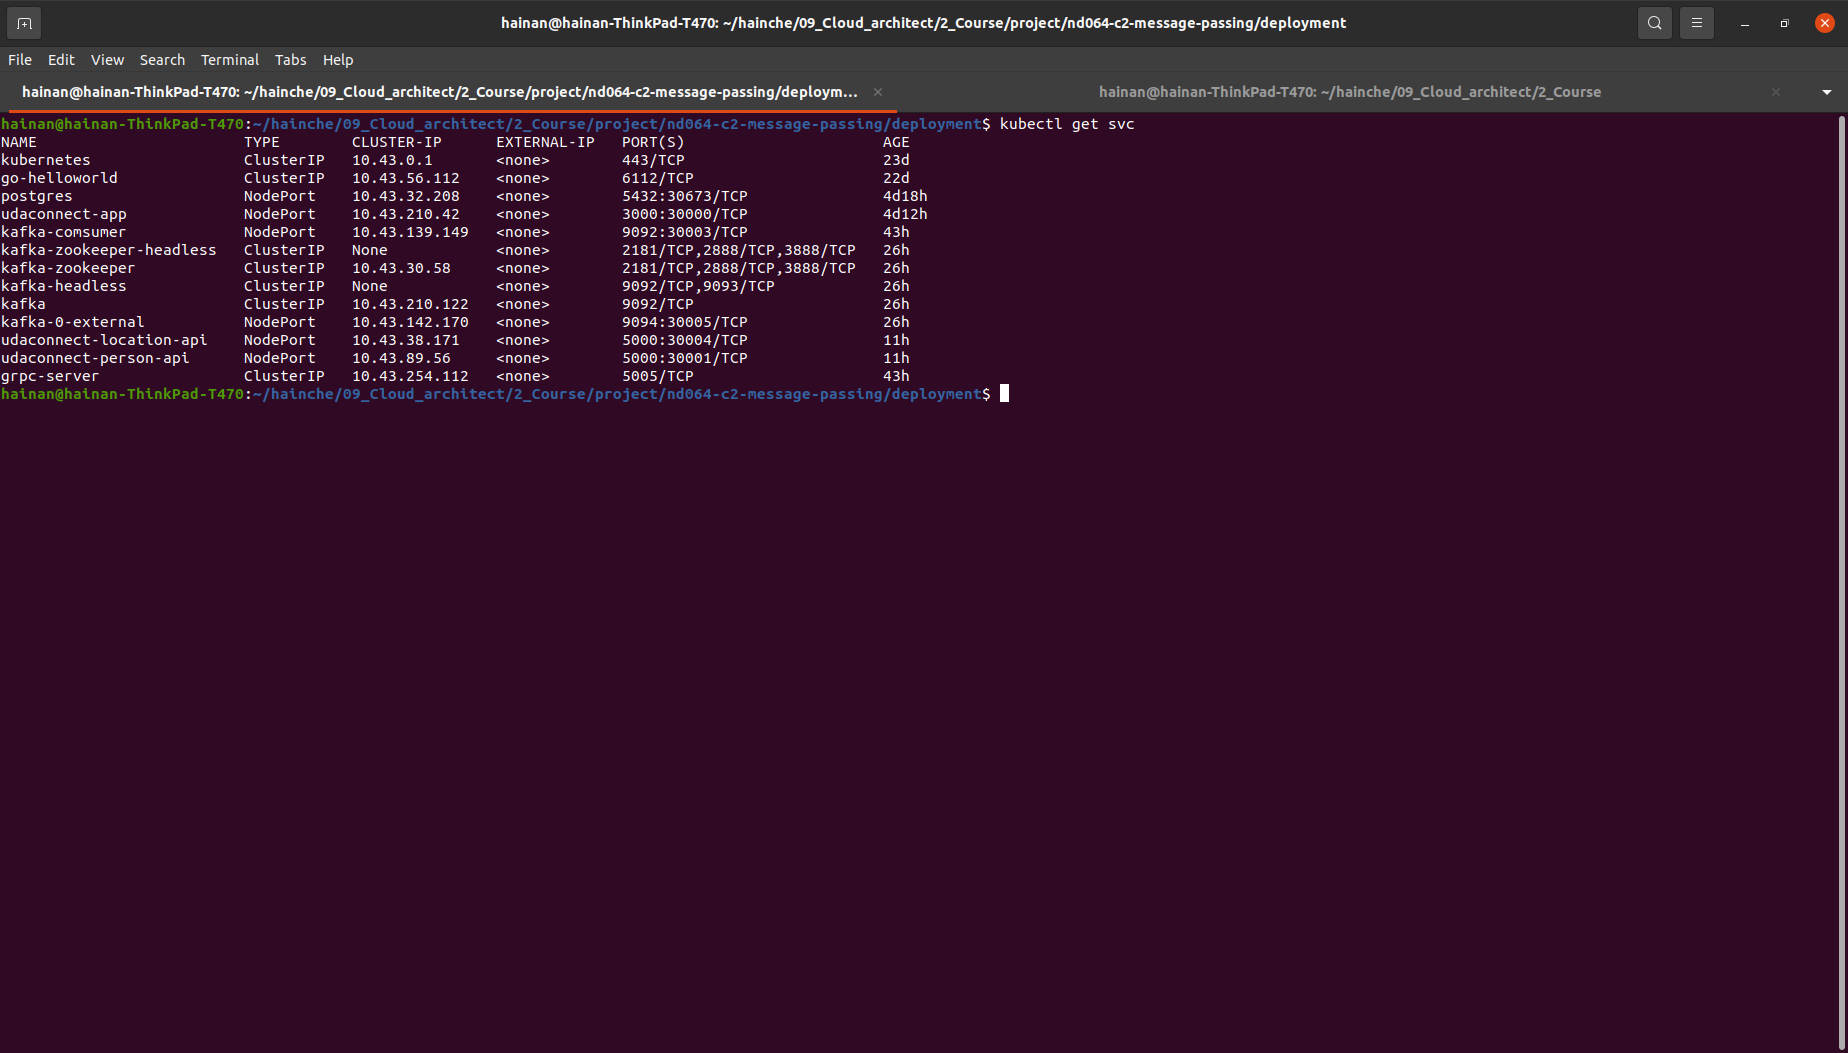
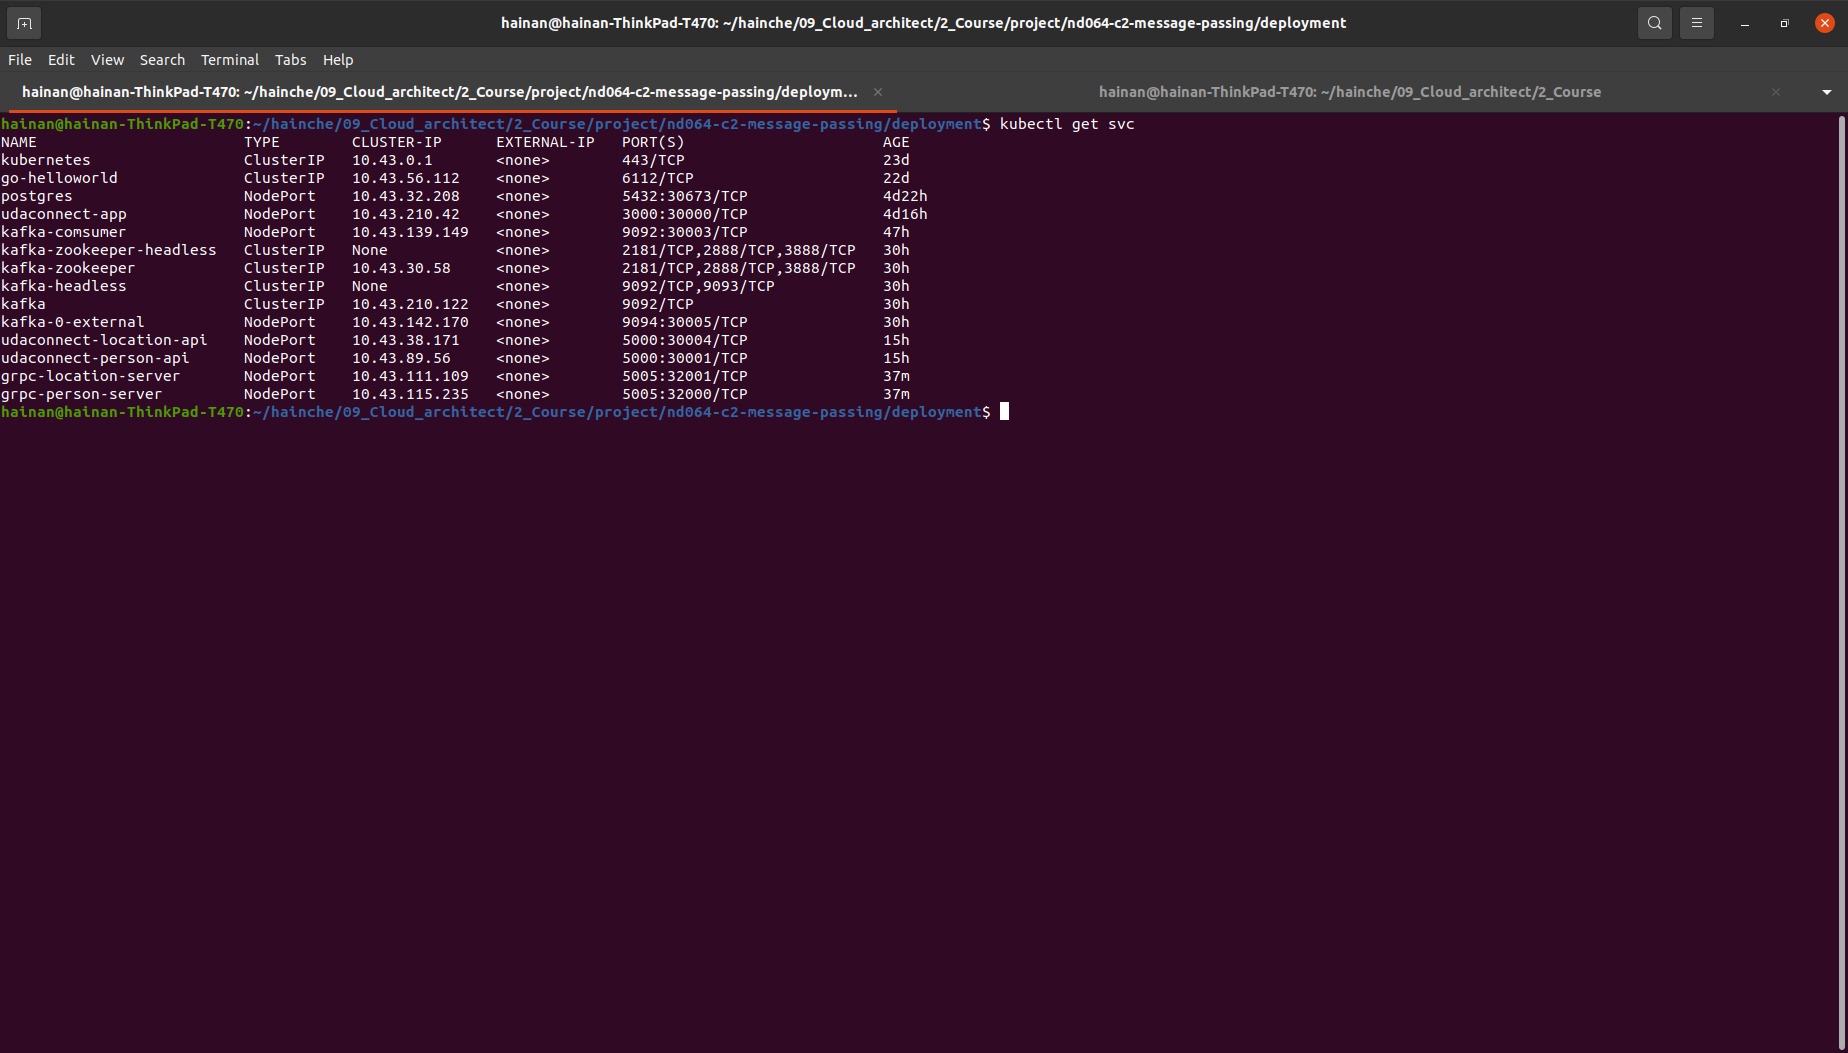
foo

Changed region(s): [[0.0, 0.3343, 0.5552, 0.3951]]

diff --git a/modules/grpc_server/server.py b/modules/grpc_server/server.py
@@ -25,7 +25,7 @@ except:
 class LocationServicer(service_pb2_grpc.LocationServiceServicer):
     def Create(self, request, context):
         global producer
-        print("Received a location message!")
+        logging.info("Received a location message!")
 
         request_value = {
             "id": request.id,
@@ -34,10 +34,11 @@ class LocationServicer(service_pb2_grpc.LocationServiceServicer):
             "latitude": request.latitude,
             "creation_time": request.creation_time
         }
-        logging.info("location: " + json.dumps(request_value))
+        logging.info("new location: " + json.dumps(request_value))
         data = json.dumps(request_value).encode()
         # TODO: create db with kafka
 
+        logging.info("sent msg to kafka consumer!")
         TOPIC_NAME = 'location'
         producer.send(TOPIC_NAME, data)
         producer.flush()
@@ -48,18 +49,20 @@ class LocationServicer(service_pb2_grpc.LocationServiceServicer):
 class PersonServicer(service_pb2_grpc.PersonServiceServicer):
     def Create(self, request, context):
         global producer
-        print("Received a person message!")
-
+        logging.info("Received a person message!")
         request_value = {
             "id": request.id,
             "first_name": request.first_name,
             "last_name": request.last_name,
             "company_name": request.company_name,
         }
-        logging.info("person: " + json.dumps(request_value))
+        logging.info("new person: " + json.dumps(request_value))
         # TODO: create db with kafka
         data = json.dumps(request_value).encode()
         TOPIC_NAME = 'person'
+
+        logging.info("sent msg to kafka consumer!")
+
         producer.send(TOPIC_NAME, data)
         producer.flush()
         return service_pb2.PersonMessage(**request_value)
@@ -81,7 +84,7 @@ def serve():
         logging.info("Person gRPC server initialized")
 
     # TODO: server pod
-    print("Server starting on port 5005...")
+    logging.info("Server starting on port 5005...")
     server.add_insecure_port("[::]:5005")
     server.start()
     # Keep thread alive

diff --git a/modules/grpc_server/writer.py b/modules/grpc_server/writer.py
@@ -14,13 +14,13 @@ logging.basicConfig(
 logging.info("Sending sample payload...")
 
 try:
-    channel = grpc.insecure_channel("localhost:30007")
-    logging.info("localhost:30007")
+    channel = grpc.insecure_channel("localhost:32000")
+    logging.info("channel on localhost:32000")
     stub = service_pb2_grpc.PersonServiceStub(channel)
     logging.info("PersonServiceStub set ")
     # Update this with desired payload
     order = service_pb2.PersonMessage(
-        id=4338,
+        id=10001,
         first_name="foo",
         last_name='chen',
         company_name='mercedes'
@@ -34,14 +34,14 @@ except Exception as e:
     logging.error("Unable to send person msg")
 
 try:
-    channel = grpc.insecure_channel("localhost:30008")
-    logging.info("localhost:30008")
+    channel = grpc.insecure_channel("localhost:32001")
+    logging.info("channel on localhost:32001")
     stub = service_pb2_grpc.LocationServiceStub(channel)
 
     logging.info("LocationServiceStub set ")
     # Update this with desired payload
     order = service_pb2.LocationMessage(
-        id=3118,
+        id=10001,
         person_id=1,
         longitude='9.0',
         latitude='48.0',
